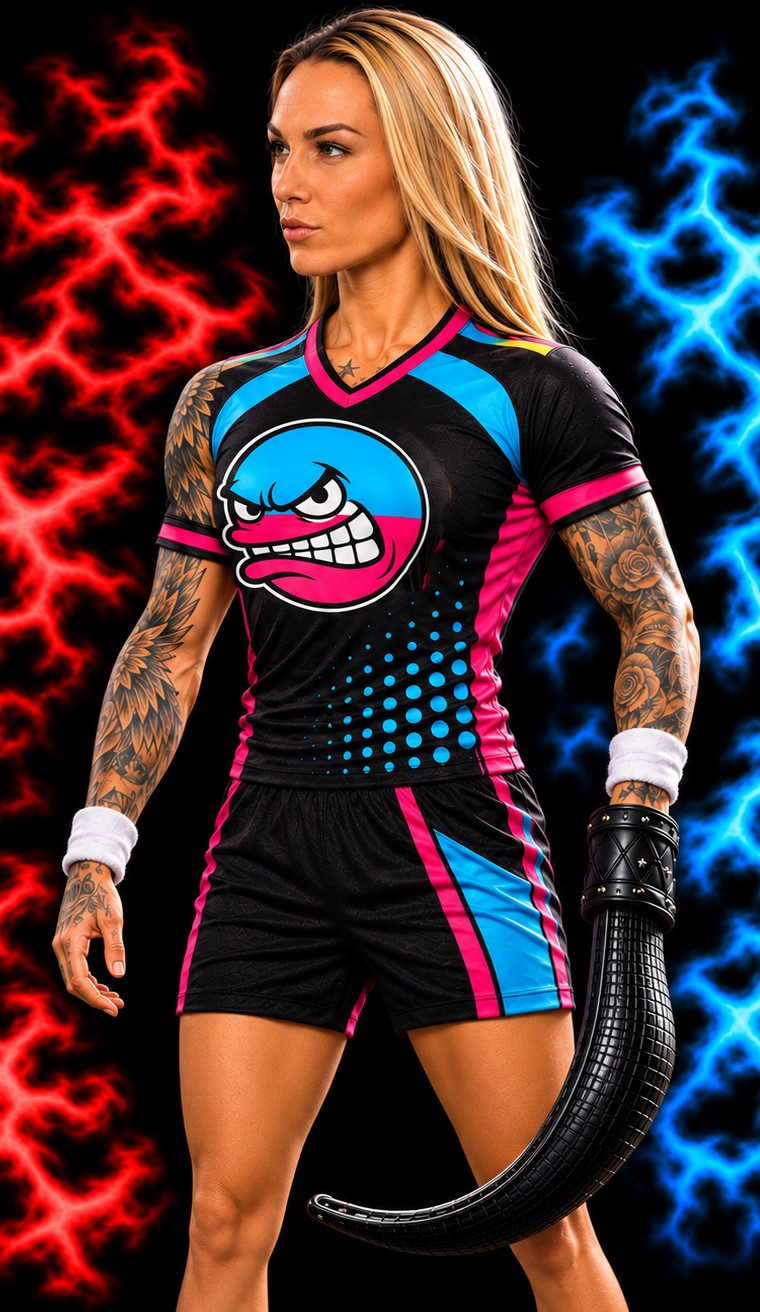
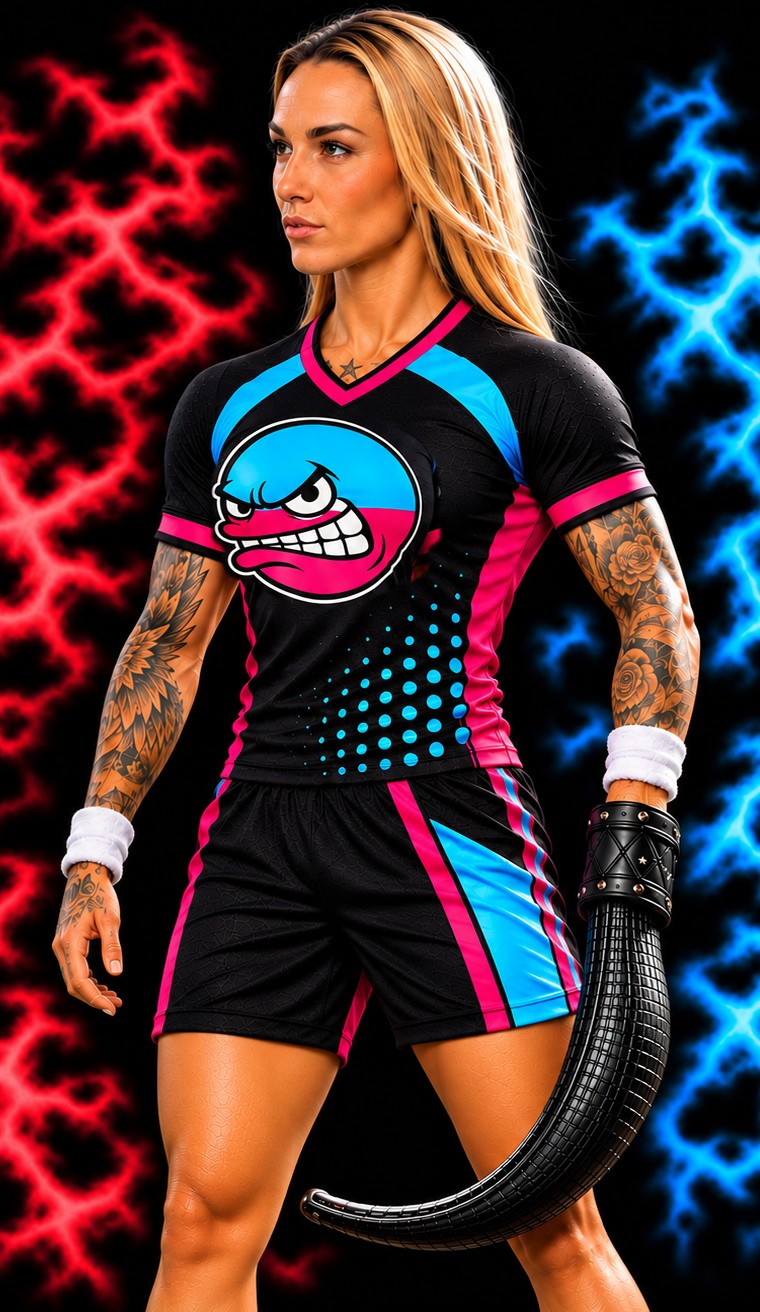
Britain Hart: new Peloteros picture
Claude-Session: https://claude.ai/code/session_01RXYkimbn35SjoihCfai7fS

diff --git a/index.html b/index.html
@@ -18,7 +18,7 @@ img { max-width: 100%; }
 [hidden] { display: none !important; }
 </style>
 <script>
-window.FL_BUILD = "20261125232235";
+window.FL_BUILD = "20261125233017";
 window.FL_RELAY = "wss://relay-production-5e78c1a2.up.railway.app/ws";
 window.FL_STATS = "https://relay-production-5e78c1a2.up.railway.app/t";
 window.FL_FEEDBACK = "https://relay-production-5e78c1a2.up.railway.app/feedback";
@@ -1628,7 +1628,7 @@ window.FLFeedback = (function () {
   var PROMO = window.FL_PROMO || null;
   if (PROMO && !PROMO._v) {                                       // the pictures were redone without smoke: a new address so no phone shows a saved old one
     PROMO._v = 1;
-    var bump = function (o) { if (o) for (var k in o) { if (typeof o[k] === 'string') { if (/\.jpg$/.test(o[k])) o[k] += '?s=12'; } else if (o[k] && typeof o[k] === 'object') bump(o[k]); } };
+    var bump = function (o) { if (o) for (var k in o) { if (typeof o[k] === 'string') { if (/\.jpg$/.test(o[k])) o[k] += '?s=13'; } else if (o[k] && typeof o[k] === 'object') bump(o[k]); } };
     (PROMO.people || []).forEach(function (w) { bump(w.art); bump(w.solo); }); bump(PROMO.blank);
   }                           // a limited-edition match-up page: its own landing screen, no setup page
   function save() { if (PROMO) return; try { localStorage.setItem(STORE, JSON.stringify(cfg)); } catch (e) { /* ignore */ } }
@@ -2305,8 +2305,8 @@ window.FLFeedback = (function () {
       '</section>' +
       '<section class="wz-step" id="wz6" hidden>' + wzTop(4, 'Limited Edition Skins') +
         '<p class="wz-sub">Tap a skin to purchase. $0.99 per month each.</p><div class="wz-skins">' +
-        [['1928 Mickey', 'skin-mickey.jpg'], ['1926 Pooh', 'bh-b-l-14.jpg'], ['1929 Popeye', 'pp-b-l-14.jpg'], ['Santa', 'sx-s-l.jpg'], ['The Grinch', 'sx-g-l.jpg']].map(function (k) { return '<button type="button" class="wz-skin" data-wz="skin" data-skin="' + k[0] + '"><img src="' + k[1] + '?s=12" alt=""><b>' + k[0] + '</b></button>'; }).join('') +
-        '<button type="button" class="wz-skin wz-you" data-wz="avatar"><span class="wz-youart"><img src="kh-blank-l-14.jpg?s=12" alt=""><i>?</i></span><b>Your Avatar</b></button>' +
+        [['1928 Mickey', 'skin-mickey.jpg'], ['1926 Pooh', 'bh-b-l-14.jpg'], ['1929 Popeye', 'pp-b-l-14.jpg'], ['Santa', 'sx-s-l.jpg'], ['The Grinch', 'sx-g-l.jpg']].map(function (k) { return '<button type="button" class="wz-skin" data-wz="skin" data-skin="' + k[0] + '"><img src="' + k[1] + '?s=13" alt=""><b>' + k[0] + '</b></button>'; }).join('') +
+        '<button type="button" class="wz-skin wz-you" data-wz="avatar"><span class="wz-youart"><img src="kh-blank-l-14.jpg?s=13" alt=""><i>?</i></span><b>Your Avatar</b></button>' +
         '</div></section>' +
       '<div class="wz-pop wz-standby" id="wzStandby" hidden><div class="wz-popcard"><h3>Stand By</h3><p class="wz-sbcode">Game code <b id="wzSbCode"></b></p><p class="wz-atxt" id="wzSbMsg"></p><button type="button" class="wz-next" data-wz="standby-leave">Leave Game</button></div></div>' +
       '<div class="wz-pop" id="wzAvatar" hidden><form class="wz-popcard" id="wzAvatarForm" autocomplete="off"><h3>Your Avatar</h3>' +

diff --git a/johan-vs-gorka.html b/johan-vs-gorka.html
@@ -18,7 +18,7 @@ img { max-width: 100%; }
 [hidden] { display: none !important; }
 </style>
 <script>
-window.FL_BUILD = "20261125232235";
+window.FL_BUILD = "20261125233017";
 window.FL_RELAY = "wss://relay-production-5e78c1a2.up.railway.app/ws";
 window.FL_STATS = "https://relay-production-5e78c1a2.up.railway.app/t";
 window.FL_FEEDBACK = "https://relay-production-5e78c1a2.up.railway.app/feedback";
@@ -1628,7 +1628,7 @@ window.FLFeedback = (function () {
   var PROMO = window.FL_PROMO || null;
   if (PROMO && !PROMO._v) {                                       // the pictures were redone without smoke: a new address so no phone shows a saved old one
     PROMO._v = 1;
-    var bump = function (o) { if (o) for (var k in o) { if (typeof o[k] === 'string') { if (/\.jpg$/.test(o[k])) o[k] += '?s=12'; } else if (o[k] && typeof o[k] === 'object') bump(o[k]); } };
+    var bump = function (o) { if (o) for (var k in o) { if (typeof o[k] === 'string') { if (/\.jpg$/.test(o[k])) o[k] += '?s=13'; } else if (o[k] && typeof o[k] === 'object') bump(o[k]); } };
     (PROMO.people || []).forEach(function (w) { bump(w.art); bump(w.solo); }); bump(PROMO.blank);
   }                           // a limited-edition match-up page: its own landing screen, no setup page
   function save() { if (PROMO) return; try { localStorage.setItem(STORE, JSON.stringify(cfg)); } catch (e) { /* ignore */ } }
@@ -2305,8 +2305,8 @@ window.FLFeedback = (function () {
       '</section>' +
       '<section class="wz-step" id="wz6" hidden>' + wzTop(4, 'Limited Edition Skins') +
         '<p class="wz-sub">Tap a skin to purchase. $0.99 per month each.</p><div class="wz-skins">' +
-        [['1928 Mickey', 'skin-mickey.jpg'], ['1926 Pooh', 'bh-b-l-14.jpg'], ['1929 Popeye', 'pp-b-l-14.jpg'], ['Santa', 'sx-s-l.jpg'], ['The Grinch', 'sx-g-l.jpg']].map(function (k) { return '<button type="button" class="wz-skin" data-wz="skin" data-skin="' + k[0] + '"><img src="' + k[1] + '?s=12" alt=""><b>' + k[0] + '</b></button>'; }).join('') +
-        '<button type="button" class="wz-skin wz-you" data-wz="avatar"><span class="wz-youart"><img src="kh-blank-l-14.jpg?s=12" alt=""><i>?</i></span><b>Your Avatar</b></button>' +
+        [['1928 Mickey', 'skin-mickey.jpg'], ['1926 Pooh', 'bh-b-l-14.jpg'], ['1929 Popeye', 'pp-b-l-14.jpg'], ['Santa', 'sx-s-l.jpg'], ['The Grinch', 'sx-g-l.jpg']].map(function (k) { return '<button type="button" class="wz-skin" data-wz="skin" data-skin="' + k[0] + '"><img src="' + k[1] + '?s=13" alt=""><b>' + k[0] + '</b></button>'; }).join('') +
+        '<button type="button" class="wz-skin wz-you" data-wz="avatar"><span class="wz-youart"><img src="kh-blank-l-14.jpg?s=13" alt=""><i>?</i></span><b>Your Avatar</b></button>' +
         '</div></section>' +
       '<div class="wz-pop wz-standby" id="wzStandby" hidden><div class="wz-popcard"><h3>Stand By</h3><p class="wz-sbcode">Game code <b id="wzSbCode"></b></p><p class="wz-atxt" id="wzSbMsg"></p><button type="button" class="wz-next" data-wz="standby-leave">Leave Game</button></div></div>' +
       '<div class="wz-pop" id="wzAvatar" hidden><form class="wz-popcard" id="wzAvatarForm" autocomplete="off"><h3>Your Avatar</h3>' +
